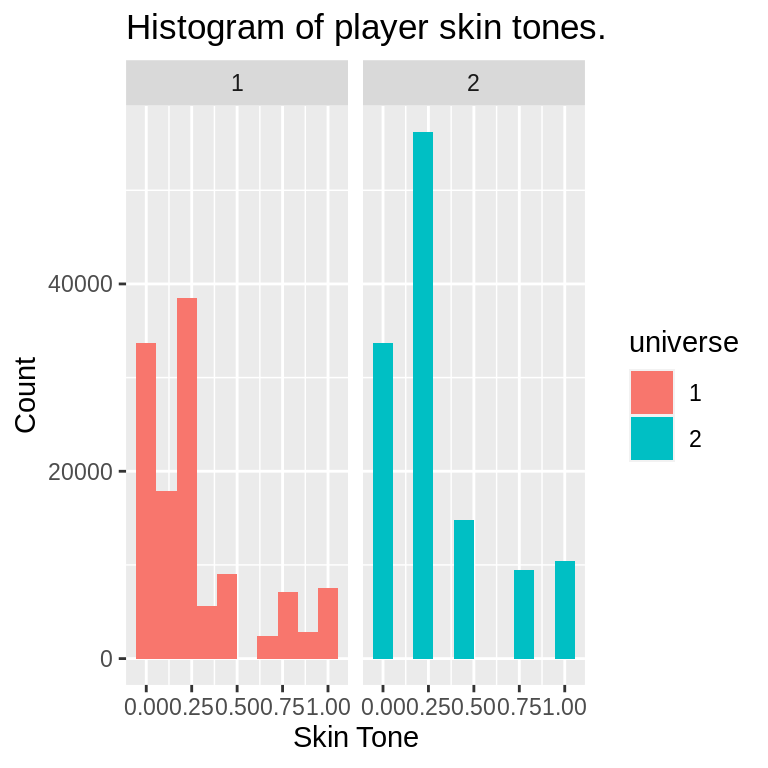
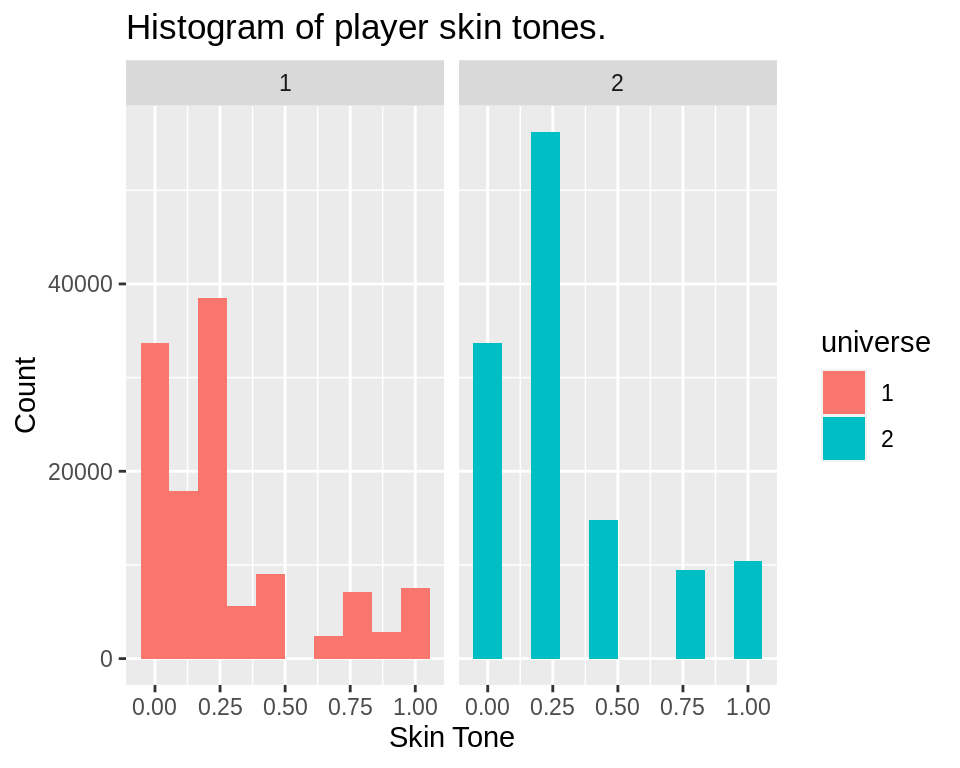
Deploy mverseanalysis/mverse to github.com/mverseanalysis/mverse.git:gh-pages

diff --git a/articles/example-1.html b/articles/example-1.html
@@ -683,7 +683,7 @@ First, we will define the five options as separate variables.</p>
                  <span class="kw">colour</span> <span class="kw">=</span> <span class="st">'white'</span>) +
   <span class="fu"><a href="https://ggplot2.tidyverse.org/reference/labs.html">labs</a></span>(<span class="kw">title</span> <span class="kw">=</span> <span class="st">'Histogram of player skin tones.'</span>,
        <span class="kw">x</span> <span class="kw">=</span> <span class="st">'Skin Tone'</span>, <span class="kw">y</span> <span class="kw">=</span> <span class="st">'Count'</span>)</pre></body></html></div>
-<p><img src="example-1_files/figure-html/hist_base-1.png" width="384"></p>
+<p><img src="example-1_files/figure-html/hist_base-1.png" width="480"></p>
 <p>Now, for the remaining four variable definitions, we will have to repeat the step above.</p>
 <div id="exercise-" class="section level3">
 <h3 class="hasAnchor">
@@ -709,11 +709,6 @@ First, we will define the five options as separate variables.</p>
   (<span class="no">rater1</span> + <span class="no">rater2</span>)/<span class="fl">2</span>,
   <span class="fu"><a href="https://rdrr.io/r/base/ifelse.html">ifelse</a></span>(<span class="no">rater1</span> <span class="kw">&gt;</span> <span class="no">rater2</span>, <span class="no">rater1</span>, <span class="no">rater2</span>)
 )</pre></body></html></div>
-</div>
-<div id="r-variable_branch-skin_tone---variable_branch-rater1-rater22-ifelserater1-rater2-rater1-rater2-ifelserater1-rater2-rater2-rater1-rater1-rater2" class="section level1">
-<h1 class="hasAnchor">
-<a href="#r-variable_branch-skin_tone---variable_branch-rater1-rater22-ifelserater1-rater2-rater1-rater2-ifelserater1-rater2-rater2-rater1-rater1-rater2" class="anchor"></a><code>{r variable_branch} # skin_tone &lt;- variable_branch( #   (rater1 + rater2)/2, #   ifelse(rater1 &gt; rater2, rater1, rater2), #   ifelse(rater1 &gt; rater2, rater2, rater1), #   rater1, #   rater2 # ) #</code>
-</h1>
 <p>You can then add the variable branch rules to the <code>mverse</code> object using <code>add_variable_branch</code>. You can use the <code>tidyverse</code>’s <code>dplyr</code> grammar for defining the variable rules.</p>
 <div class="sourceCode" id="cb6"><html><body><pre class="r"><span class="no">mv</span> <span class="kw">&lt;-</span> <span class="no">mv</span> <span class="kw">%&gt;%</span>
   <span class="fu"><a href="https://rdrr.io/pkg/mverse/man/add_variable_branch.html">add_variable_branch</a></span>(<span class="no">skin_tone</span>) <span class="kw">%&gt;%</span>
@@ -758,6 +753,7 @@ ifelse(rater1 &gt; rater2, rater1, rater2)
 <li>Print the multiverse table. How many <em>universes</em> does your multiverse produce?</li>
 </ol>
 </div>
+</div>
 <div id="comparing-between-universes-" class="section level2">
 <h2 class="hasAnchor">
 <a href="#comparing-between-universes-" class="anchor"></a>3. Comparing between Universes.</h2>
@@ -774,17 +770,17 @@ ifelse(rater1 &gt; rater2, rater1, rater2)
   <span class="fu"><a href="https://ggplot2.tidyverse.org/reference/ggplot.html">ggplot</a></span>(<span class="kw">mapping</span> <span class="kw">=</span> <span class="fu"><a href="https://ggplot2.tidyverse.org/reference/aes.html">aes</a></span>(<span class="kw">x</span> <span class="kw">=</span> <span class="no">skin_tone</span>, <span class="kw">color</span> <span class="kw">=</span> <span class="no">universe</span>)) +
   <span class="fu"><a href="https://ggplot2.tidyverse.org/reference/geom_density.html">geom_density</a></span>(<span class="kw">alpha</span> <span class="kw">=</span> <span class="fl">0.2</span>) +
   <span class="fu"><a href="https://ggplot2.tidyverse.org/reference/labs.html">xlab</a></span>(<span class="st">'Skin Tone'</span>) +
-  <span class="fu"><a href="https://ggplot2.tidyverse.org/reference/labs.html">ylab</a></span>(<span class="st">'Density'</span>)</pre></body></html></div>
-<p><img src="example-1_files/figure-html/compare_universe-1.png" width="384"></p>
+  <span class="fu"><a href="https://ggplot2.tidyverse.org/reference/labs.html">ylab</a></span>(<span class="st">'Density'</span>) +
+  <span class="fu"><a href="https://ggplot2.tidyverse.org/reference/labs.html">ggtitle</a></span>(<span class="st">'Density of player skin tones.'</span>)</pre></body></html></div>
+<p><img src="example-1_files/figure-html/compare_universe-1.png" width="480"></p>
 <p>Another option is the use <code>ggplot</code>’s <code>facet_grid</code> function to generate multiple plots in a grid.</p>
 <div class="sourceCode" id="cb11"><html><body><pre class="r"><span class="no">branched</span> <span class="kw">%&gt;%</span>
   <span class="fu"><a href="https://ggplot2.tidyverse.org/reference/ggplot.html">ggplot</a></span>(<span class="kw">mapping</span> <span class="kw">=</span> <span class="fu"><a href="https://ggplot2.tidyverse.org/reference/aes.html">aes</a></span>(<span class="kw">x</span> <span class="kw">=</span> <span class="no">skin_tone</span>, <span class="kw">fill</span> <span class="kw">=</span> <span class="no">universe</span>)) +
   <span class="fu"><a href="https://ggplot2.tidyverse.org/reference/geom_histogram.html">geom_histogram</a></span>(<span class="kw">position</span> <span class="kw">=</span> <span class="st">'dodge'</span>, <span class="kw">bins</span> <span class="kw">=</span> <span class="fl">10</span>) +
   <span class="fu"><a href="https://ggplot2.tidyverse.org/reference/labs.html">labs</a></span>(<span class="kw">title</span> <span class="kw">=</span> <span class="st">'Histogram of player skin tones.'</span>,
-       <span class="kw">y</span> <span class="kw">=</span> <span class="st">'Count'</span>, <span class="kw">x</span><span class="kw">=</span><span class="st">'Skin Tone'</span>) +
-  <span class="co"># generate histograms for each universe and place along a column.</span>
-  <span class="fu"><a href="https://ggplot2.tidyverse.org/reference/facet_grid.html">facet_grid</a></span>(<span class="no">.</span> ~ <span class="no">universe</span>)</pre></body></html></div>
-<p><img src="example-1_files/figure-html/compare_universe_hist-1.png" width="384"></p>
+       <span class="kw">y</span> <span class="kw">=</span> <span class="st">'Count'</span>, <span class="kw">x</span><span class="kw">=</span><span class="st">'Skin Tone'</span>) + <span class="co"># you can add axis labels and plot title with labs.</span>
+  <span class="fu"><a href="https://ggplot2.tidyverse.org/reference/facet_grid.html">facet_grid</a></span>(<span class="no">.</span> ~ <span class="no">universe</span>) <span class="co"># generate histograms for each universe.</span></pre></body></html></div>
+<p><img src="example-1_files/figure-html/compare_universe_hist-1.png" width="480"></p>
 <div id="exercise--2" class="section level3">
 <h3 class="hasAnchor">
 <a href="#exercise--2" class="anchor"></a>Exercise.</h3>
@@ -808,7 +804,6 @@ ifelse(rater1 &gt; rater2, rater1, rater2)
 <div id="refs" class="references">
 <div id="ref-datasrc">
 <p>Silberzahn, Raphael, Eric Luis Uhlmann, Dan Martin, Pasquale Anselmi, Frederik Aust, Eli C. Awtrey, Štěpán Bahník, et al. 2014. “Many Analysts, One Dataset: Making Transparent How Variations in Anlytical Choices Affect Results.” <a href="https://osf.io/gvm2z/" class="uri">https://osf.io/gvm2z/</a>.</p>
-</div>
 </div>
 </div>
 </div>
